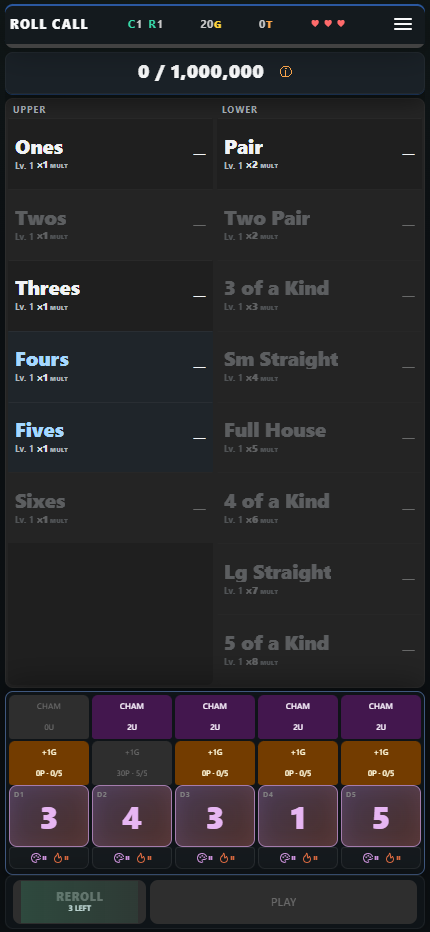
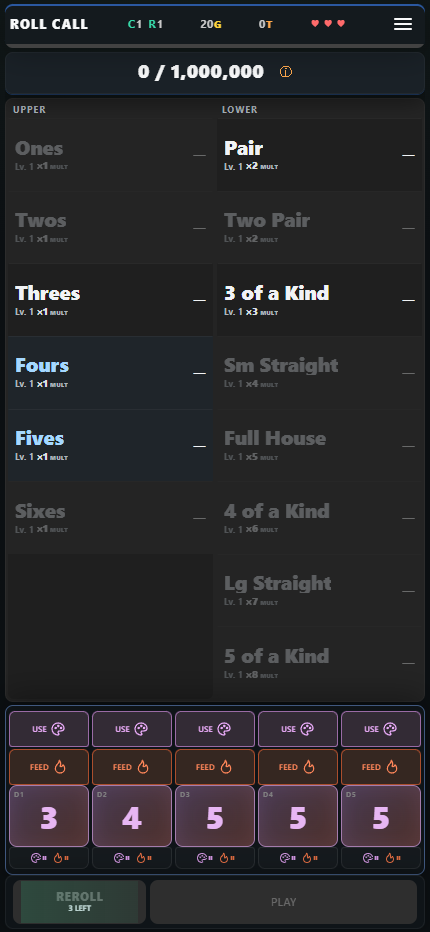
Die action button overhaul

diff --git a/tests/diceEffectsRedesign.spec.ts b/tests/diceEffectsRedesign.spec.ts
@@ -51,6 +51,35 @@ test('stacked direct controls remain independent, touchable, and responsive at a
   await expect(page.getByTestId('chameleon-action-0')).toBeDisabled();
   await expect(page.getByTestId('furnace-action-1')).toBeDisabled();
   await expect(page.getByTestId('furnace-action-0')).toBeEnabled();
+  await expect(page.getByTestId('chameleon-action-1')).toHaveText('USE');
+  await expect(page.getByTestId('chameleon-action-1').locator('.die-type-icon')).toHaveCount(1);
+  await expect(page.getByTestId('furnace-action-0')).toHaveText('FEED');
+  await expect(page.getByTestId('furnace-action-0').locator('.die-type-icon')).toHaveCount(1);
+  await expect(page.getByTestId('chameleon-action-0')).toHaveAccessibleName(/0 of 2 Uses remaining.*no Uses remaining/i);
+  await expect(page.getByTestId('furnace-action-1')).toHaveAccessibleName(/0 of 5 feeds remaining.*at most 5 Gold/i);
+  await expect(page.getByTestId('chameleon-action-1')).toHaveAttribute('data-action-remaining', '2');
+  await expect(page.getByTestId('chameleon-action-1')).toHaveAttribute('data-action-capacity', '2');
+  await expect(page.getByTestId('chameleon-action-1')).toHaveAttribute('title', /2 of 2 Uses remaining/);
+  await expect(page.getByTestId('furnace-action-0')).toHaveAttribute('data-action-remaining', '5');
+  await expect(page.getByTestId('furnace-action-0')).toHaveAttribute('title', /5 of 5 feeds remaining/);
+  expect(await page.getByTestId('chameleon-action-0').evaluate(element =>
+    Number(getComputedStyle(element).getPropertyValue('--die-action-progress')))).toBe(0);
+  expect(await page.getByTestId('chameleon-action-1').evaluate(element =>
+    Number(getComputedStyle(element).getPropertyValue('--die-action-progress')))).toBe(1);
+  expect(await page.getByTestId('furnace-action-1').evaluate(element =>
+    Number(getComputedStyle(element).getPropertyValue('--die-action-progress')))).toBe(0);
+
+  await page.getByTestId('chameleon-action-2').click();
+  await expect(page.getByTestId('chameleon-action-2')).toHaveAttribute('data-action-remaining', '1');
+  expect(await page.getByTestId('chameleon-action-2').evaluate(element =>
+    Number(getComputedStyle(element).getPropertyValue('--die-action-progress')))).toBe(.5);
+  await page.getByTestId('chameleon-action-2').click();
+  await expect(page.getByTestId('chameleon-action-2')).toHaveAttribute('data-action-remaining', '0');
+  await expect(page.getByTestId('chameleon-action-2')).toBeDisabled();
+  expect(await page.getByTestId('chameleon-action-2').evaluate(element =>
+    Number(getComputedStyle(element).getPropertyValue('--die-action-progress')))).toBe(0);
+  await page.getByTestId('chameleon-action-3').click();
+  await expect(page.getByTestId('chameleon-action-3')).toHaveAttribute('data-action-remaining', '1');
 
   for (const viewport of [
     { width: 320, height: 720 }, { width: 375, height: 812 }, { width: 430, height: 932 },
@@ -59,26 +88,40 @@ test('stacked direct controls remain independent, touchable, and responsive at a
     await page.setViewportSize(viewport);
     const audit = await page.getByTestId('dice-dock').evaluate(element => {
       const buttons = [...element.querySelectorAll<HTMLElement>('.die-direct-action')];
+      const slotHeights = [...element.querySelectorAll<HTMLElement>('.die-direct-action-slot')]
+        .map(slot => slot.getBoundingClientRect().height);
       return {
         bodyOverflow: document.documentElement.scrollWidth > document.documentElement.clientWidth,
         dockOverflow: element.scrollWidth > element.clientWidth,
         minimumWidth: Math.min(...buttons.map(button => button.getBoundingClientRect().width)),
         minimumHeight: Math.min(...buttons.map(button => button.getBoundingClientRect().height)),
+        maximumHeight: Math.max(...buttons.map(button => button.getBoundingClientRect().height)),
+        slotHeightVariance: Math.max(...slotHeights) - Math.min(...slotHeights),
       };
     });
-    expect(audit).toMatchObject({ bodyOverflow: false, dockOverflow: false });
+    expect(audit).toMatchObject({ bodyOverflow: false, dockOverflow: false, slotHeightVariance: 0 });
     expect(audit.minimumWidth).toBeGreaterThanOrEqual(44);
-    expect(audit.minimumHeight).toBeGreaterThanOrEqual(44);
+    expect(audit.minimumHeight).toBeGreaterThanOrEqual(36);
+    expect(audit.maximumHeight).toBeLessThanOrEqual(36.5);
     await page.screenshot({ path: path.join(screenshotDir, `${viewport.width}-five-forged-direct-controls.png`), fullPage: true });
   }
 
   await page.setViewportSize({ width: 430, height: 932 });
   await page.getByTestId('furnace-action-0').click();
+  await expect(page.getByTestId('furnace-action-0')).toHaveAttribute('data-action-remaining', '4');
+  expect(await page.getByTestId('furnace-action-0').evaluate(element =>
+    Number(getComputedStyle(element).getPropertyValue('--die-action-progress')))).toBe(.8);
   await expect(page.locator('.die.is-die-selected')).toHaveCount(0);
   await expect.poll(async () => (await readRunState(page))?.gold).toBe(19);
   await page.getByTestId('flame-die-0').getByRole('button', { name: /View details/ }).click();
   const details = page.getByTestId('die-details-modal');
   await expect(details.locator('.die-details-actions')).toHaveCount(0);
+  await expect(details).toContainText('0 / 2');
+  await expect(details).toContainText('1 / 5');
+  await expect(page.getByTestId('furnace-action-0')).toBeDisabled();
+  await expect(page.getByTestId('furnace-action-0')).toHaveAccessibleName(/4 of 5 feeds remaining.*temporarily unavailable/i);
+  expect(await page.getByTestId('furnace-action-0').evaluate(element =>
+    Number(getComputedStyle(element).getPropertyValue('--die-action-progress')))).toBe(.8);
   await page.screenshot({ path: path.join(screenshotDir, '430-informational-die-details.png'), fullPage: true });
 
   const seven = sevenForgedDice();
@@ -93,10 +136,16 @@ test('stacked direct controls remain independent, touchable, and responsive at a
     dockScrollWidth: element.scrollWidth,
     minimumWidth: Math.min(...[...element.querySelectorAll<HTMLElement>('.die-direct-action')]
       .map(button => button.getBoundingClientRect().width)),
+    minimumHeight: Math.min(...[...element.querySelectorAll<HTMLElement>('.die-direct-action')]
+      .map(button => button.getBoundingClientRect().height)),
+    actionSlotHeights: [...element.querySelectorAll<HTMLElement>('.die-direct-action-slot')]
+      .map(slot => slot.getBoundingClientRect().height),
   }));
   expect(sevenAudit.bodyOverflow).toBe(false);
   expect(sevenAudit.dockOverflowPixels, JSON.stringify(sevenAudit)).toBeLessThanOrEqual(1);
   expect(sevenAudit.minimumWidth).toBeGreaterThanOrEqual(44);
+  expect(sevenAudit.minimumHeight).toBeGreaterThanOrEqual(36);
+  expect(new Set(sevenAudit.actionSlotHeights).size).toBe(1);
   await page.screenshot({ path: path.join(screenshotDir, '320-seven-forged-direct-controls.png'), fullPage: true });
 });
 

diff --git a/src/components/DieDirectActions.tsx b/src/components/DieDirectActions.tsx
@@ -1,8 +1,18 @@
+import type { CSSProperties } from 'react';
 import { Button } from '@mantine/core';
 import { CONFIG } from '../game/config';
 import { validateAction } from '../game/engine';
-import { effectOf, effectRuntime } from '../game/specialDice';
+import { effectOf, effectRuntime, invocationCapacity, SPECIAL_DICE } from '../game/specialDice';
 import type { Action, Board, CollectibleDie } from '../game/types';
+import { DieTypeIcon } from './DieTypeLabel';
+
+function capacityStyle(type: 'chameleon' | 'furnace', remaining: number, capacity: number): CSSProperties {
+  const progress = capacity > 0 ? Math.max(0, Math.min(1, remaining / capacity)) : 0;
+  return {
+    '--die-action-accent': SPECIAL_DICE[type].color,
+    '--die-action-progress': progress,
+  } as CSSProperties;
+}
 
 export function directActionCount(die: CollectibleDie): number {
   return Number(!!effectOf(die, 'chameleon')) + Number(!!effectOf(die, 'furnace'));
@@ -19,10 +29,14 @@ export function DieDirectActions({ board, die, busy, actionsEnabled, submit }: {
   const unavailable = busy || !actionsEnabled ? 'Gameplay controls are temporarily unavailable.' : null;
   const chameleon = effectOf(die, 'chameleon');
   const chameleonRuntime = effectRuntime(board.dieRoundState[die.id], chameleon);
+  const chameleonCapacity = chameleon ? invocationCapacity(chameleon) : 0;
+  const chameleonRemaining = chameleonRuntime?.invocationsRemaining ?? chameleonCapacity;
   const chameleonAction: Action = { type: 'INVOKE_CHAMELEON', dieId: die.id };
   const chameleonReason = unavailable ?? (chameleon ? validateAction(board, chameleonAction) : null);
   const furnace = effectOf(die, 'furnace');
   const furnaceRuntime = effectRuntime(board.dieRoundState[die.id], furnace);
+  const furnaceFed = furnaceRuntime?.furnaceGoldFed ?? 0;
+  const furnaceRemaining = Math.max(0, CONFIG.furnaceMaxGoldPerRound - furnaceFed);
   const furnaceAction: Action = { type: 'FEED_FURNACE', dieId: die.id, amount: 1 };
   const furnaceReason = unavailable ?? (furnace ? validateAction(board, furnaceAction) : null);
 
@@ -30,19 +44,23 @@ export function DieDirectActions({ board, die, busy, actionsEnabled, submit }: {
   return <div className="die-direct-actions" aria-label={`Direct actions for die ${die.id}`}>
     {chameleon && <Button size="compact-xs" variant="light" color="grape"
       className="die-direct-action chameleon-direct-action" disabled={chameleonReason !== null}
-      title={chameleonReason ?? 'Change this face to the most common face among your other dice.'}
-      aria-label={`Use Chameleon. ${chameleonRuntime?.invocationsRemaining ?? 0} Uses remaining${chameleonReason ? `. Unavailable: ${chameleonReason}` : ''}`}
+      title={`Change this face to the most common face among your other dice. ${chameleonRemaining} of ${chameleonCapacity} Uses remaining.${chameleonReason ? ` Unavailable: ${chameleonReason}` : ''}`}
+      aria-label={`Use Chameleon. ${chameleonRemaining} of ${chameleonCapacity} Uses remaining${chameleonReason ? `. Unavailable: ${chameleonReason}` : ''}`}
+      data-action-remaining={chameleonRemaining} data-action-capacity={chameleonCapacity}
       data-testid={`chameleon-action-${die.id}`}
+      style={capacityStyle('chameleon', chameleonRemaining, chameleonCapacity)}
       onClick={event => { event.stopPropagation(); submit(chameleonAction); }}>
-      <span>CHAM</span><small>{chameleonRuntime?.invocationsRemaining ?? 0}U</small>
+      <span>USE</span><DieTypeIcon type="chameleon" size={16} />
     </Button>}
     {furnace && <Button size="compact-xs" variant="light" color="yellow"
       className="die-direct-action furnace-direct-action" disabled={furnaceReason !== null}
-      title={furnaceReason ?? 'Spend 1 Gold to add to this Furnace reserve.'}
-      aria-label={`Feed Furnace 1 Gold. Reserve ${furnaceRuntime?.furnacePips ?? 0} Pips. ${furnaceRuntime?.furnaceGoldFed ?? 0} of ${CONFIG.furnaceMaxGoldPerRound} Gold fed this Round${furnaceReason ? `. Unavailable: ${furnaceReason}` : ''}`}
+      title={`Spend 1 Gold to add to this Furnace reserve. ${furnaceRemaining} of ${CONFIG.furnaceMaxGoldPerRound} feeds remaining; ${furnaceRuntime?.furnacePips ?? 0} Pips reserved.${furnaceReason ? ` Unavailable: ${furnaceReason}` : ''}`}
+      aria-label={`Feed Furnace 1 Gold. ${furnaceRemaining} of ${CONFIG.furnaceMaxGoldPerRound} feeds remaining. Reserve ${furnaceRuntime?.furnacePips ?? 0} Pips${furnaceReason ? `. Unavailable: ${furnaceReason}` : ''}`}
+      data-action-remaining={furnaceRemaining} data-action-capacity={CONFIG.furnaceMaxGoldPerRound}
       data-testid={`furnace-action-${die.id}`}
+      style={capacityStyle('furnace', furnaceRemaining, CONFIG.furnaceMaxGoldPerRound)}
       onClick={event => { event.stopPropagation(); submit(furnaceAction); }}>
-      <span>+1G</span><small>{furnaceRuntime?.furnacePips ?? 0}P · {furnaceRuntime?.furnaceGoldFed ?? 0}/{CONFIG.furnaceMaxGoldPerRound}</small>
+      <span>FEED</span><DieTypeIcon type="furnace" size={16} />
     </Button>}
   </div>;
 }

diff --git a/src/styles.css b/src/styles.css
@@ -1159,16 +1159,30 @@ body, #root { overflow: hidden; }
 .dice-dock .dice-row { width: min(100%, 620px); margin: 0 auto; grid-template-columns: repeat(var(--dice-columns, 5), minmax(0, 1fr)); gap: 6px; }
 .die-slot { min-width: 0; display: grid; grid-template-rows: auto auto 24px; align-items: center; }
 .die-direct-action-slot {
-  width: 100%; min-width: 0; min-height: calc(var(--die-action-rows, 0) * 44px);
+  width: 100%; min-width: 0; min-height: calc(var(--die-action-rows, 0) * 38px);
   display: flex; align-items: flex-end; justify-content: center;
 }
 .die-direct-actions { width: 100%; min-width: 0; display: grid; gap: 2px; align-self: end; }
 .die-direct-action.mantine-Button-root {
-  width: 100%; min-width: 44px; min-height: 44px; height: 44px; padding-inline: 3px;
-  border-radius: 6px 6px 3px 3px; font-size: clamp(.52rem, 1.55vw, .67rem); line-height: 1;
+  position: relative; isolation: isolate; overflow: hidden;
+  width: 100%; min-width: 44px; min-height: 36px; height: 36px; padding-inline: 3px;
+  border: 1px solid color-mix(in srgb, var(--die-action-accent) 58%, transparent);
+  border-radius: 6px 6px 3px 3px;
+  background: color-mix(in srgb, var(--die-action-accent) 10%, var(--mantine-color-dark-8));
+  color: color-mix(in srgb, var(--die-action-accent) 82%, white);
+  font-size: clamp(.52rem, 1.55vw, .67rem); line-height: 1;
 }
-.die-direct-action .mantine-Button-label { min-width: 0; display: grid; justify-items: center; gap: 2px; }
-.die-direct-action small { max-width: 100%; overflow: hidden; text-overflow: ellipsis; font-size: .48rem; white-space: nowrap; }
+.die-direct-action.mantine-Button-root::before {
+  position: absolute; z-index: 0; inset: 0; content: ''; pointer-events: none;
+  background: color-mix(in srgb, var(--die-action-accent) 38%, transparent);
+  transform: scaleX(var(--die-action-progress, 0)); transform-origin: left;
+  transition: transform .16s ease;
+}
+.die-direct-action .mantine-Button-inner { position: relative; z-index: 1; }
+.die-direct-action .mantine-Button-label {
+  min-width: 0; display: flex; align-items: center; justify-content: center; gap: 3px; white-space: nowrap;
+}
+.die-direct-action .die-type-icon { flex: 0 0 auto; }
 .die-face-details:focus-visible, .flame-detail-trigger:focus-visible {
   outline: 2px solid var(--mantine-color-orange-4); outline-offset: 1px;
 }
@@ -1360,7 +1374,6 @@ body, #root { overflow: hidden; }
   .die-slot .die { min-height: 46px; max-height: 55px; }
   .die-slot .die > .die-number { font-size: 1.45rem; }
   .die-direct-action.mantine-Button-root { padding-inline: 1px; font-size: .48rem; }
-  .die-direct-action small { font-size: .41rem; }
   .dice-dock:has(.dice-row[data-dice-count="7"]) { margin-inline: -6px; padding-inline: 0 !important; overflow-x: clip; }
   .dice-dock .dice-row[data-dice-count="7"] { width: calc(100% - 1px); gap: 1px; }
 }
